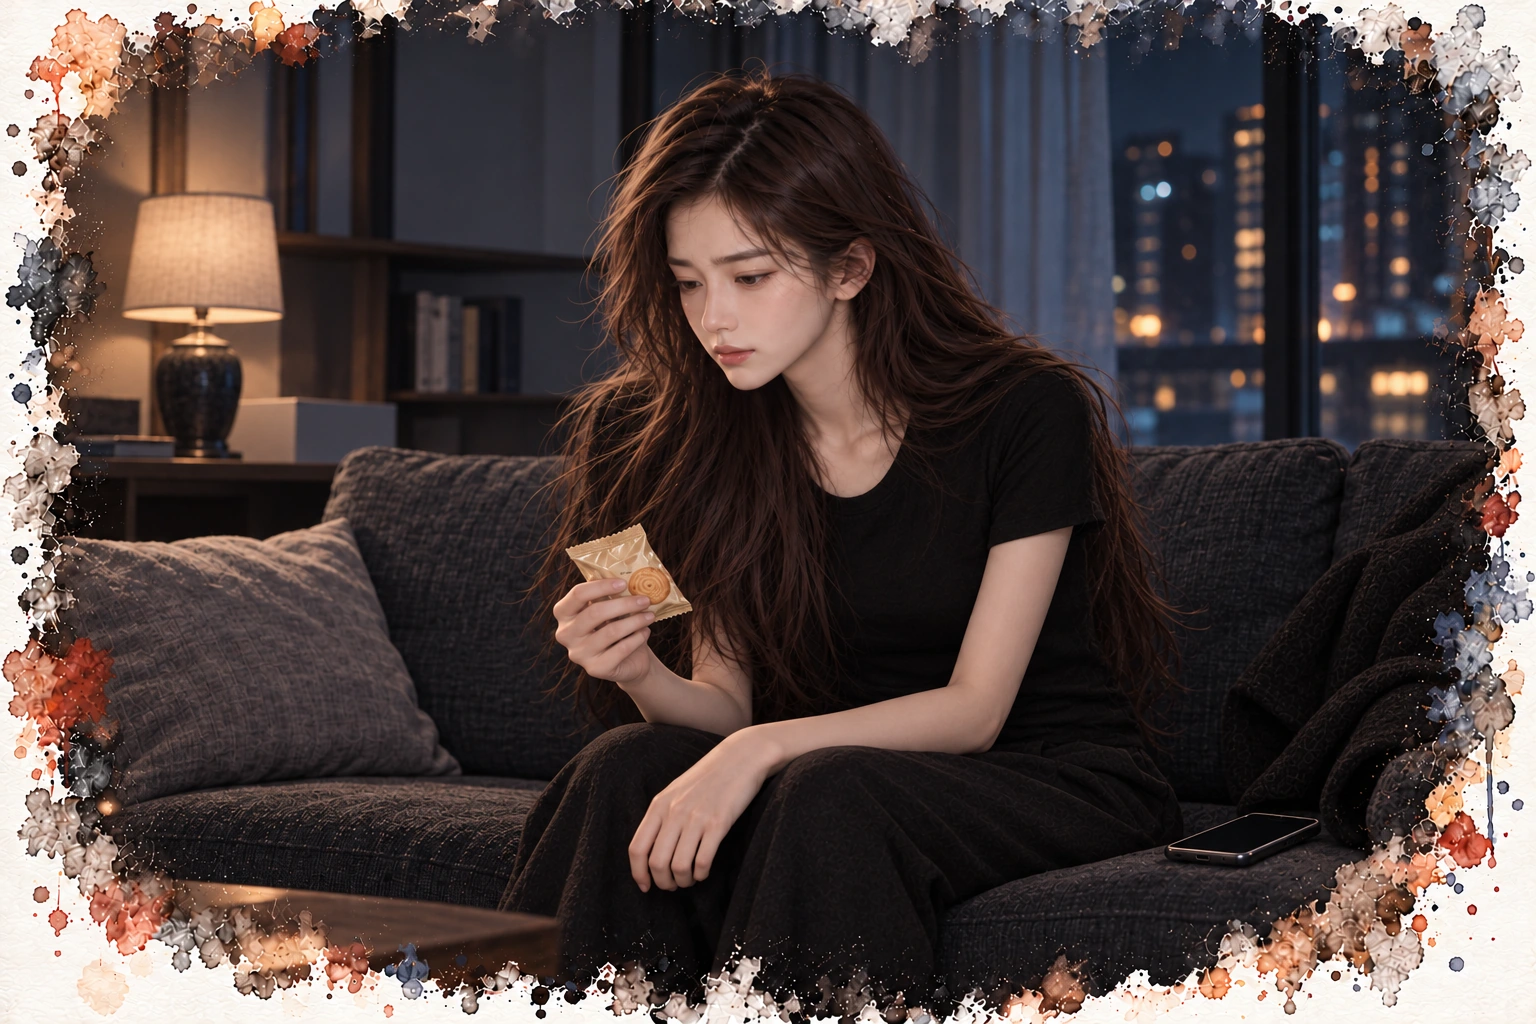
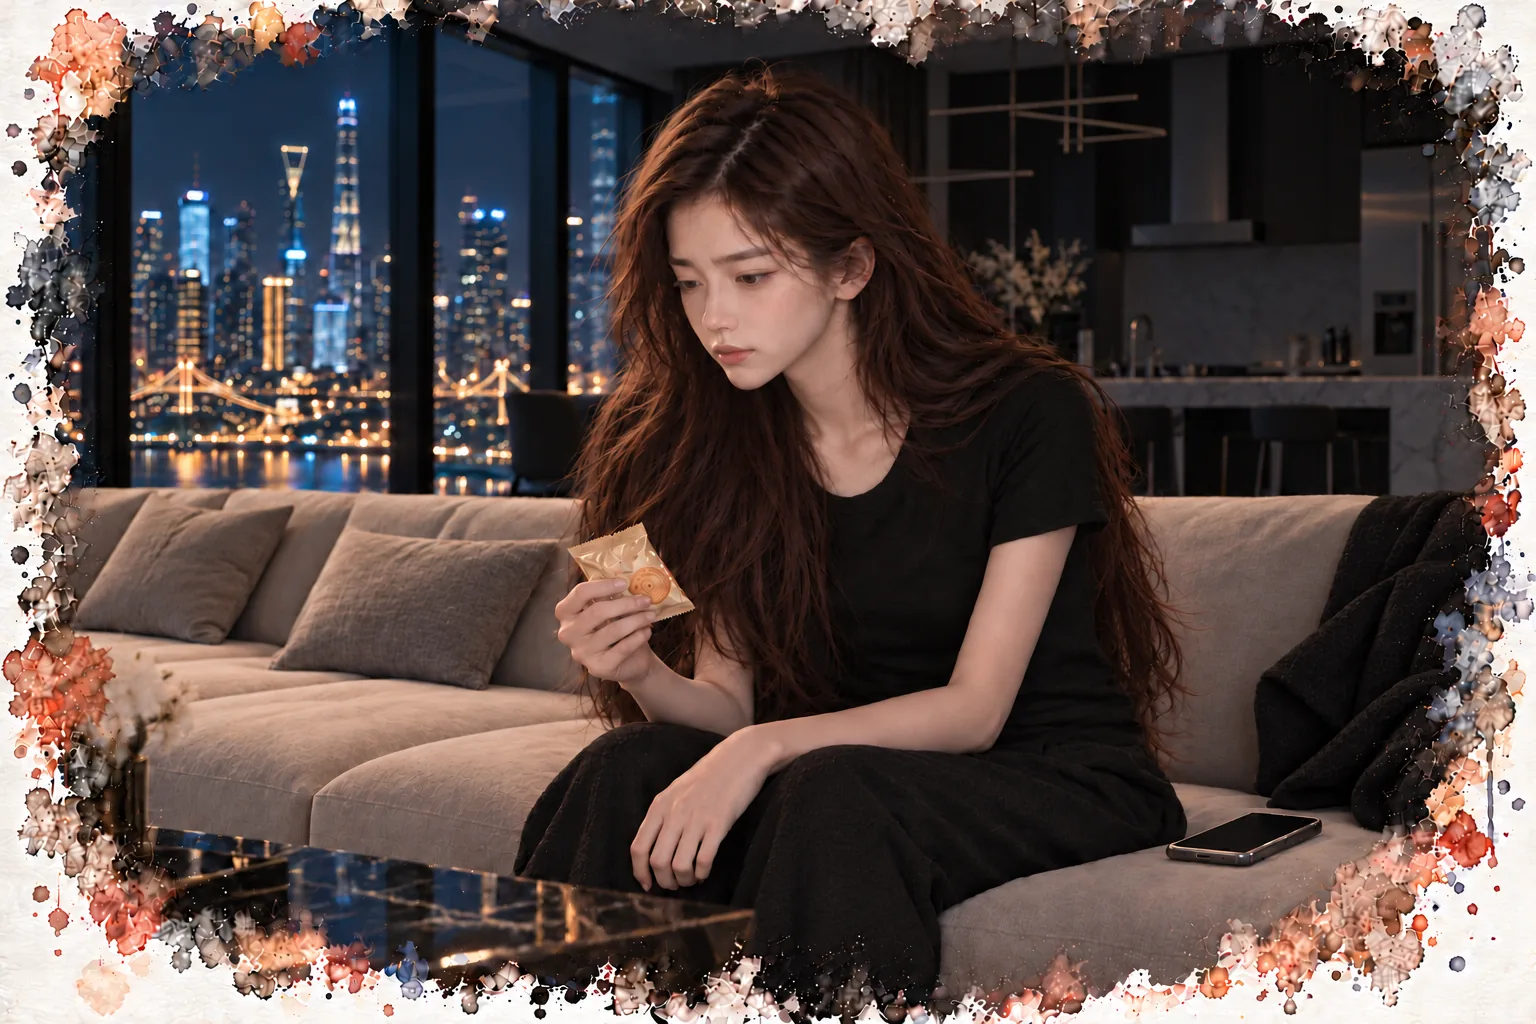
第三章林棠插圖換成與第十章一致的家
Claude-Session: https://claude.ai/code/session_01FLr1RA4E3WTZWxbkNeT9Ra

diff --git a/novels/no-signboard-bar/chapter-03.html b/novels/no-signboard-bar/chapter-03.html
@@ -88,7 +88,7 @@
 <p>他這張印得最好。</p>
 </section>
 <section class="pov pov-lin" data-name="林棠">
-<div class="pov-opening"><h2 class="pov-title" id="pov-3"><span>敘事視角</span>林棠</h2><a class="pov-art" href="../../assets/novels/no-signboard-bar/chapter-03-lin-tang.webp" target="_blank" rel="noopener" aria-label="開啟林棠插圖大圖"><img src="../../assets/novels/no-signboard-bar/chapter-03-lin-tang.webp" alt="林棠坐在沙發上低頭捏著皺巴巴的餅乾包裝，手機放在身旁。" width="1536" height="1024" loading="lazy" decoding="async"><span class="pov-cap">十二點多，那包壓了好幾天的奶油餅乾</span></a><div class="pov-intro"><p>我坐在角落，看完了整場。</p>
+<div class="pov-opening"><h2 class="pov-title" id="pov-3"><span>敘事視角</span>林棠</h2><a class="pov-art" href="../../assets/novels/no-signboard-bar/chapter-03-lin-tang.webp?v=2" target="_blank" rel="noopener" aria-label="開啟林棠插圖大圖"><img src="../../assets/novels/no-signboard-bar/chapter-03-lin-tang.webp?v=2" alt="林棠坐在家中落地窗前的長沙發上，低頭捏著那包餅乾，手機放在身旁。" width="1536" height="1024" loading="lazy" decoding="async"><span class="pov-cap">十二點多，那包壓了好幾天的奶油餅乾</span></a><div class="pov-intro"><p>我坐在角落，看完了整場。</p>
 <p>我聽不懂他們在講什麼。字我都聽得懂，意思我聽不懂。</p>
 <p>「我常等人。」「我在等人回家。」</p></div></div>
 <p>那兩個男人講話的樣子，很像兩隻貓在同一個屋頂上。尾巴都沒動，身體都沒動，但誰都沒閉眼。</p>
